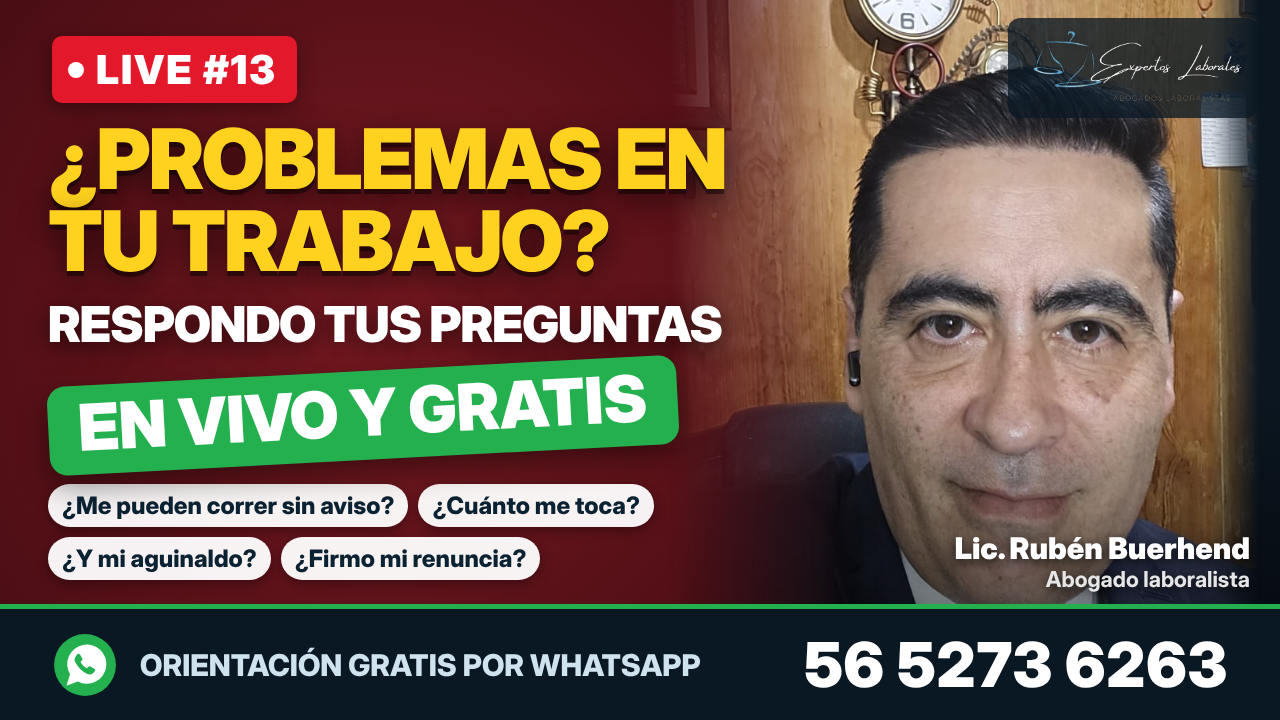
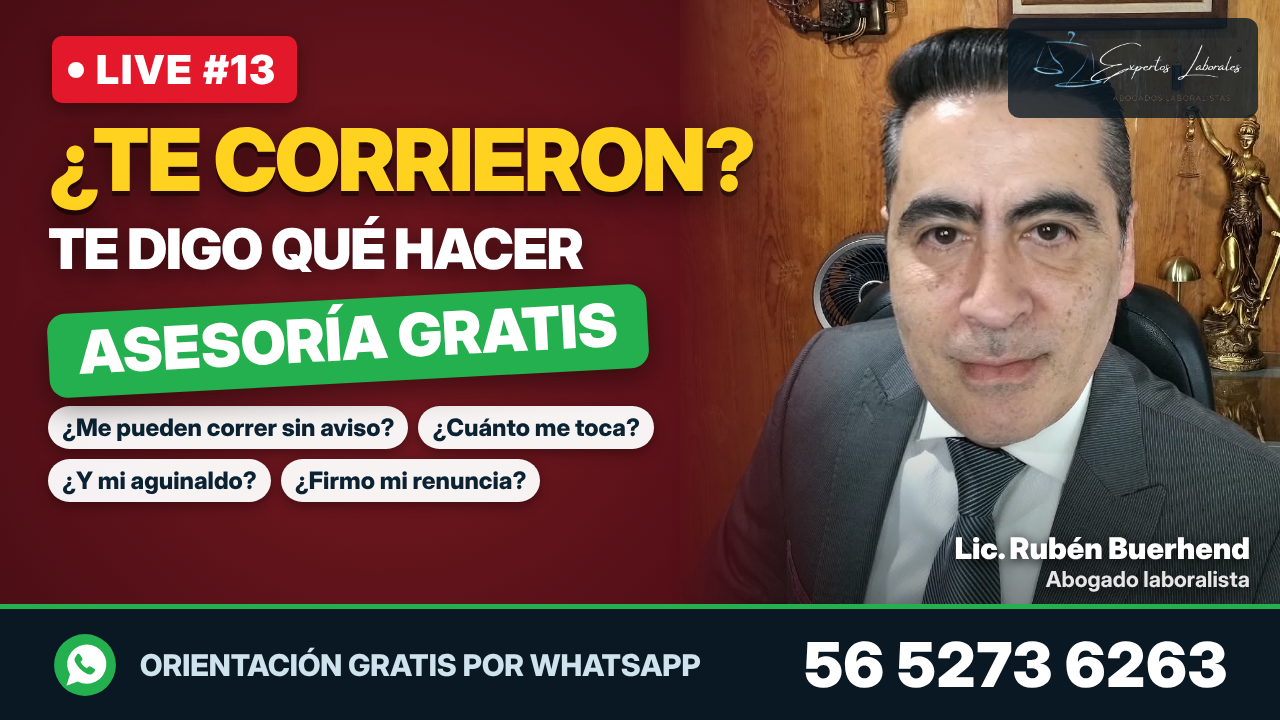
Miniatura LIVE #13 con foto nueva y frase nueva
Claude-Session: https://claude.ai/code/session_01C3deJav44xscTHSyeunJhm

diff --git a/marketing/miniaturas/generar_serie_lives.js b/marketing/miniaturas/generar_serie_lives.js
@@ -9,6 +9,7 @@ const FOTOS={
   negro:{src:'../fotos/ruben_traje_negro.jpg',w:671,l:-60,t:-215},
   azul:{src:'../fotos/ruben_traje_azul.jpg',w:628,l:-12,t:-199},
   gris:{src:'../fotos/ruben_selfie_traje_gris.jpg',w:744,l:-26,t:-264},
+  gris2:{src:'../fotos/ruben_selfie_traje_gris2.jpg',w:744,l:10,t:-250},
   selfie:{src:'../fotos/ruben_selfie_cerca_derecha.jpg',w:832,l:-192,t:-264,tapaDerecha:true},
 };
 const COLORES=[['#1f4e6b','#143650','#0b2233'],['#7a1a22','#4a0d14','#24060a'],['#17704a','#0e4a31','#062417'],['#5b3391','#3a1f63','#1b0d31'],['#b85a12','#7a3a0a','#331804'],['#126b78','#0b4650','#042226']];
@@ -32,7 +33,7 @@ const PREGUNTAS=[
 const fs=require('fs'), path=require('path');
 const REG=path.join(__dirname,'registro.json');
 const reg=fs.existsSync(REG)?JSON.parse(fs.readFileSync(REG,'utf8')):{};
-const FOTO_KEYS=['selfie','negro','azul','gris'];
+const FOTO_KEYS=['selfie','negro','azul','gris','gris2'];
 const DESDE=+(process.argv[3]||1), HASTA=+(process.argv[4]||DESDE);
 function usada(c){return Object.values(reg).some(r=>r.color===c.color&&r.frase===c.frase&&r.preg===c.preg&&r.foto===c.foto);}
 function siguienteCombo(n){

diff --git a/CLAUDE.md b/CLAUDE.md
@@ -99,7 +99,7 @@ documento $49 / curso $299) → se volvieron juicio.
   el usuario avisa cada vez que sube un video -> correr
   `cd marketing/miniaturas && node generar_serie_lives.js "$(pwd)" N`,
   mandarle `live_N.png`, y anotar el video en `registro.json` ("video").**
-  Entregadas #1-#15 (el usuario tenía ~15 lives listos para subir). Foto nueva 'gris' (selfie traje gris-azul, corbata azul, `ruben_selfie_traje_gris_derecha.jpg`, 18 nov 2026, pedido del usuario) -- la #11 se rehízo con ella (versión volteada); desde la #12 el usuario la pidió en el sentido ORIGINAL de la cámara (`ruben_selfie_traje_gris.jpg`) porque la volteada se le veía rara -- por eso redibujar la #11 hoy ya no sale idéntica. 18 nov: el usuario pidió no repetir frases -- se agregaron 5 frases nuevas (índices 3-7) y la #12 usa "CONOCE TUS DERECHOS". El generador elige los componentes MENOS usados y evita repetir color/foto/frase/preguntas con los 2 lives anteriores (la 1a versión solo alternaba azul/rojo, corregido).
+  Entregadas #1-#15 (el usuario tenía ~15 lives listos para subir). Foto nueva 'gris' (selfie traje gris-azul, corbata azul, `ruben_selfie_traje_gris_derecha.jpg`, 18 nov 2026, pedido del usuario) -- la #11 se rehízo con ella (versión volteada); desde la #12 el usuario la pidió en el sentido ORIGINAL de la cámara (`ruben_selfie_traje_gris.jpg`) porque la volteada se le veía rara -- por eso redibujar la #11 hoy ya no sale idéntica. 18 nov: el usuario pidió no repetir frases -- se agregaron 5 frases nuevas (índices 3-7) y la #12 usa "CONOCE TUS DERECHOS". 20 nov: foto nueva gris2 (traje gris, corbata gris, `ruben_selfie_traje_gris2.jpg`, sin voltear) y la #13 usa "¿TE CORRIERON?". El generador elige los componentes MENOS usados y evita repetir color/foto/frase/preguntas con los 2 lives anteriores (la 1a versión solo alternaba azul/rojo, corregido).
 - **Métricas de redes** (YouTube/TikTok): `marketing/metricas_redes.md`,
   punto de partida 16 nov 2026 (YouTube @rubenbuerhend: 24 suscriptores, 3
   videos; TikTok: 104.1K seguidores). Agregar fila con cada captura nueva

diff --git a/marketing/miniaturas/registro.md b/marketing/miniaturas/registro.md
@@ -16,6 +16,6 @@ Cada combinación (color + frase + preguntas + foto) se usa una sola vez.
 | 10 | Morado | ¿PROBLEMAS EN TU TRABAJO? | Juego 1 | selfie | 2026-11-16 | (pendiente) |
 | 11 | Turquesa | TUS DUDAS LABORALES | Juego 2 | gris | 2026-11-16 | (pendiente) |
 | 12 | Naranja | CONOCE TUS DERECHOS | Juego 3 | gris | 2026-11-16 | (pendiente) |
-| 13 | Rojo | ¿PROBLEMAS EN TU TRABAJO? | Juego 1 | selfie | 2026-11-16 | (pendiente) |
+| 13 | Rojo | ¿TE CORRIERON? | Juego 1 | gris2 | 2026-11-16 | (pendiente) |
 | 14 | Azul | TUS DUDAS LABORALES | Juego 2 | negro | 2026-11-16 | (pendiente) |
 | 15 | Morado | PREGÚNTAME LO QUE QUIERAS | Juego 3 | azul | 2026-11-16 | (pendiente) |
